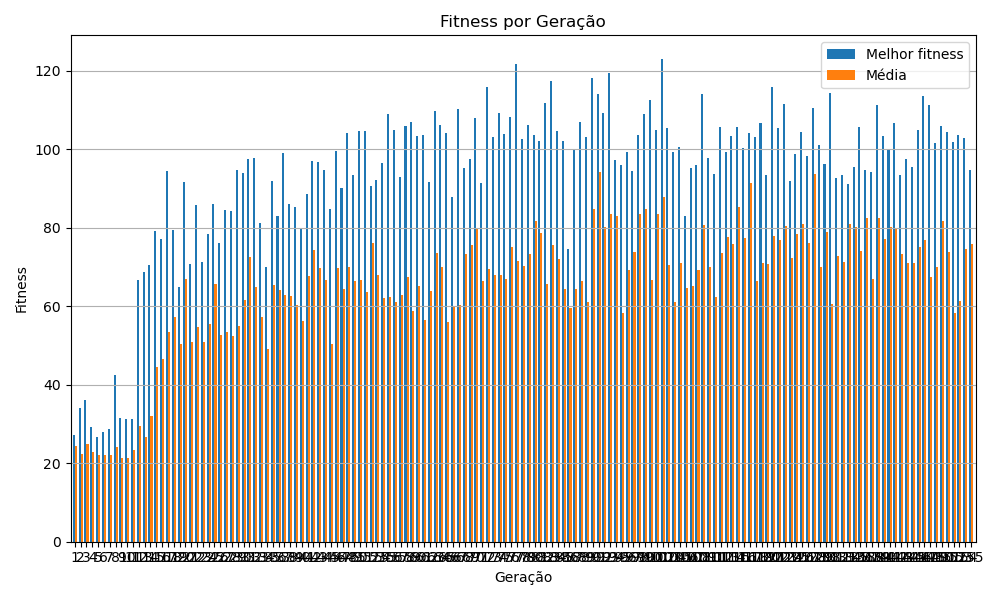
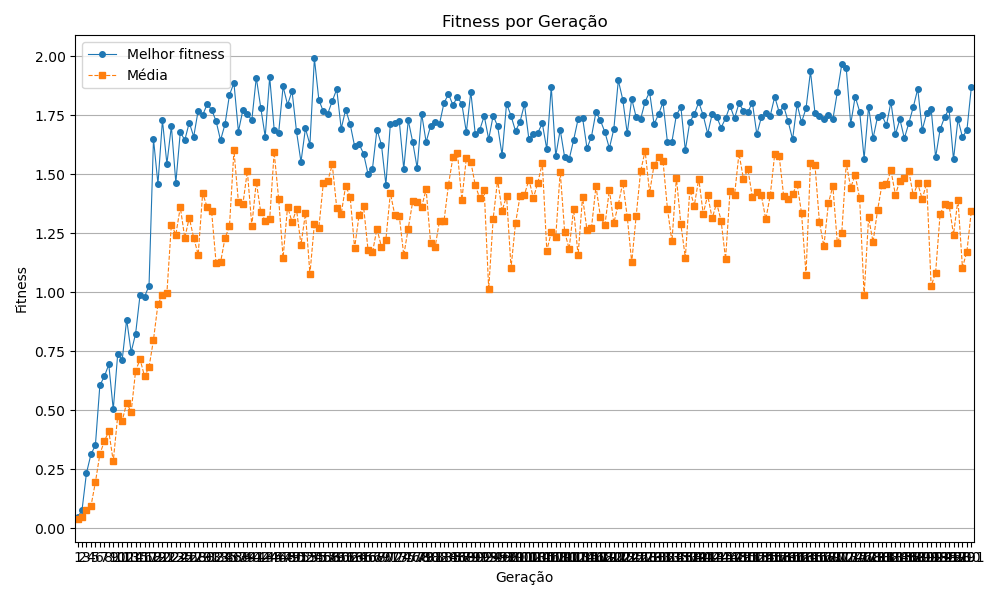
updates plot for grouping

diff --git a/src/visualization/videos/grouping.py b/src/visualization/videos/grouping.py
@@ -1,0 +1,149 @@
+import csv
+import matplotlib.pyplot as plt
+from matplotlib.patches import Circle
+import numpy as np
+import os
+from matplotlib.animation import FuncAnimation, FFMpegWriter
+
+# This script creates a video grid of simulations for the "grouping" scenario.
+# Input CSV rows are expected to contain, for each robot, 3 consecutive values:
+# x, y, theta
+# Repeated for each robot: x,y,theta,x,y,theta,...
+# All robots are drawn with the same blue color.
+
+# Configuration (edit as needed)
+num_robots = 30
+diameter_robot = 7.4
+world_size = 316  # in cm, should match simulation setup
+generation = '035'
+simulation_timestamp = '13-10-2025 15-11-17'
+
[1 lines of base64/hex data omitted]
+num_simulations = 10
+rows, cols = 2, 5
+
+# Video parameters
+fps = 10  # frames per second in output video
+
+# Trajectory (trail) configuration
+enable_trails = True
+trail_length = 40  # number of previous positions to draw (like plot_40)
+
+#update this line, there is no ending with 0.csv, there is no such files
+robot_files = [f for f in sorted(os.listdir(base_dir)) if f.endswith('.csv')][:num_simulations]
+
+# Read all data
+robot_trajectories_x_all = []
+robot_trajectories_y_all = []
+robot_trajectories_theta_all = []
+num_frames_all = []
+
+for robot_file in robot_files:
+    robot_trajectories_x = [[] for _ in range(num_robots)]
+    robot_trajectories_y = [[] for _ in range(num_robots)]
+    robot_trajectories_theta = [[] for _ in range(num_robots)]
+    with open(os.path.join(base_dir, robot_file), newline='') as csvfile:
+        reader = csv.reader(csvfile, delimiter=',')
+        for row in reader:
+            # filter out empty strings
+            row = [value.strip() for value in row if value.strip()]
+            # convert to floats
+            try:
+                rowf = [float(v) for v in row]
+            except ValueError:
+                # skip malformed rows
+                continue
+            # expect 3 values per robot: x,y,theta
+            for i in range(num_robots):
+                base = 3 * i
+                if base + 2 < len(rowf):
+                    x = rowf[base]
+                    y = rowf[base + 1]
+                    theta = rowf[base + 2]
+                else:
+                    # not enough values in this row for this robot, use last known or zeros
+                    x = robot_trajectories_x[i][-1] if robot_trajectories_x[i] else 0.0
+                    y = robot_trajectories_y[i][-1] if robot_trajectories_y[i] else 0.0
+                    theta = robot_trajectories_theta[i][-1] if robot_trajectories_theta[i] else 0.0
+                robot_trajectories_x[i].append(x)
+                robot_trajectories_y[i].append(y)
+                robot_trajectories_theta[i].append(theta)
+
+    robot_trajectories_x_all.append(robot_trajectories_x)
+    robot_trajectories_y_all.append(robot_trajectories_y)
+    robot_trajectories_theta_all.append(robot_trajectories_theta)
+    num_frames_all.append(len(robot_trajectories_x[0]))
+
+total_sim_frames = max(num_frames_all) if num_frames_all else 0
+video_frames = total_sim_frames
+
+# Predefine a single blue color for all robots
+blue_color = (0.0, 0.45, 0.8)  # pleasant blue
+
+# Create Full HD figure (1920x1080). figsize is in inches; use 1920/100 x 1080/100 with dpi=100 for 1920x1080 pixels
+fig_dpi = 100
+fig_width = 1920 / fig_dpi
+fig_height = 1080 / fig_dpi
+fig, axes = plt.subplots(rows, cols, figsize=(fig_width, fig_height), dpi=fig_dpi)
+axes = axes.flatten()
+
+# Pre-create artists for each subplot to speed animation
+plot_artists = []
+for sim_idx, ax in enumerate(axes):
+    ax.set_xlim(0, world_size)
+    ax.set_ylim(0, world_size)
+    ax.set_aspect('equal')
+    for spine in ax.spines.values():
+        spine.set_visible(True)
+        spine.set_linewidth(1.5)
+    ax.grid(True, which='both', linestyle='--', linewidth=0.5, alpha=0.7)
+    ax.tick_params(left=True, bottom=True, labelleft=True, labelbottom=True, labelsize=8)
+    ax.set_title(str(sim_idx), fontsize=12, pad=8, loc='center')
+    artists = {'robot_circles': []}
+    if enable_trails:
+        artists['robot_trails'] = []
+    if sim_idx < len(robot_files):
+        for i in range(num_robots):
+            circle = Circle((0, 0), diameter_robot / 2.0, facecolor=blue_color, edgecolor=blue_color, linewidth=1.0, alpha=0.95)
+            ax.add_patch(circle)
+            artists['robot_circles'].append(circle)
+            if enable_trails:
+                # create an initial empty Line2D for the robot's trail
+                (line,) = ax.plot([], [], linewidth=1.2, color=blue_color, alpha=0.7)
+                artists['robot_trails'].append(line)
+    plot_artists.append(artists)
+
+def update(frame):
+    for sim_idx, ax in enumerate(axes):
+        if sim_idx < len(robot_files):
+            artists = plot_artists[sim_idx]
+            for i in range(num_robots):
+                xs = robot_trajectories_x_all[sim_idx][i]
+                ys = robot_trajectories_y_all[sim_idx][i]
+                idx = min(frame, len(xs) - 1)
+                x_last = xs[idx]
+                y_last = ys[idx]
+                artists['robot_circles'][i].center = (x_last, y_last)
+                # set uniform blue color
+                artists['robot_circles'][i].set_facecolor(blue_color)
+                artists['robot_circles'][i].set_edgecolor(blue_color)
+                # update trail if enabled
+                if enable_trails:
+                    start_idx = max(0, idx - trail_length + 1)
+                    trail_x = xs[start_idx:idx + 1]
+                    trail_y = ys[start_idx:idx + 1]
+                    artists['robot_trails'][i].set_data(trail_x, trail_y)
+                    # fade the trail by adjusting alpha on the Line2D (matplotlib doesn't support per-segment alpha easily)
+                    artists['robot_trails'][i].set_alpha(0.6)
+    return []
+
+ani = FuncAnimation(fig, update, frames=video_frames, blit=False)
+
+output_file = os.path.join(os.path.dirname(__file__), 'grouping_' + generation + '.mp4')
+try:
+    writer = FFMpegWriter(fps=fps)
+    ani.save(output_file, writer=writer, dpi=100)
+    print(f"Saved video to {output_file}")
+except Exception as e:
+    print("Failed to save mp4 via FFMpegWriter. Make sure ffmpeg is installed and available in PATH.")
+    print(str(e))

diff --git a/src/visualization/fitness/fitness.py b/src/visualization/fitness/fitness.py
@@ -3,7 +3,7 @@ import statistics
 from pathlib import Path
 import numpy as np
 
-base_dir = Path('/home/anachiarelli/projects/udesc/tcc/simulation/output/object_clustering/08-10-2025 17-46-37')
+base_dir = Path('/home/anachiarelli/projects/udesc/tcc/simulation/output/sorting_groups/12-10-2025 15-23-11')
 
 fitnesses_by_generation = []
 
@@ -28,23 +28,27 @@ for generation in generations:
 average_fitness_by_generation = [statistics.mean(fitnesses) for fitnesses in fitnesses_by_generation]
 maximum_fitness_by_generation = [max(fitnesses) for fitnesses in fitnesses_by_generation]
 
-# Grouped bar chart setup
+# Line chart setup
 plt.figure(figsize=(10, 6))  # Adjust figure size for better visibility
-bar_width = 0.35  # Width of each bar
 index = np.arange(len(generations))  # X-axis indices for generations
 
-# Plot bars for maximum and average fitness side by side
-plt.bar(index, maximum_fitness_by_generation, bar_width, label='Melhor fitness')
-plt.bar(index + bar_width, average_fitness_by_generation, bar_width, label='Média')
+# Plot lines for maximum and average fitness
+plt.plot(index, maximum_fitness_by_generation, marker='o', markersize=4, linestyle='-', linewidth=0.8, label='Melhor fitness')
+plt.plot(index, average_fitness_by_generation, marker='s', markersize=4, linestyle='--', linewidth=0.8, label='Média')
 
 # Customize the plot
 plt.title('Fitness por Geração')
 plt.xlabel('Geração')
 plt.ylabel('Fitness')
-plt.xticks(index + bar_width / 2, [int(generation) + 1 for generation in generations])  # Center x-ticks under grouped bars
+# Use generation numbers (1-based) as x-tick labels
+try:
+    xtick_labels = [int(generation) + 1 for generation in generations]
+except Exception:
+    xtick_labels = generations
+plt.xticks(index, xtick_labels)
 plt.legend()
 plt.grid(True, axis='y')  # Grid only on y-axis for clarity
-plt.xlim([-0.5, len(generations)])  # Adjust x-axis limits
+plt.xlim([-0.5, max(len(generations) - 0.5, 0)])  # Adjust x-axis limits
 # plt.ylim([0, 3000])  # Uncomment if you want to set a specific y-axis limit
 plt.tight_layout()  # Adjust layout to prevent label cutoff
 

diff --git a/src/Scenarios/sorting_groups/SortingEvaluator.cpp b/src/Scenarios/sorting_groups/SortingEvaluator.cpp
@@ -46,13 +46,13 @@ public:
             }
 
             // not used
-			for (int j = 0; j < this->number_of_objects; ++j) {
-				auto object = new Enki::PhysicalObject();
-				object->setCylindric(5.0, 10.0, 35.0); // These cylinders have a diameter and a height of 10 cm. Their mass is approximately 35 g
-				object->dryFrictionCoefficient = 0.58; // and their coefficient of static friction with the floor of our arena is approximately 0.58.
-				object->setColor(Enki::Color(1.0, 1.0, 1.0, 1.0));
-				objects.push_back(object);
-			}
+			// for (int j = 0; j < this->number_of_objects; ++j) {
+			// 	auto object = new Enki::PhysicalObject();
+			// 	object->setCylindric(5.0, 10.0, 35.0); // These cylinders have a diameter and a height of 10 cm. Their mass is approximately 35 g
+			// 	object->dryFrictionCoefficient = 0.58; // and their coefficient of static friction with the floor of our arena is approximately 0.58.
+			// 	object->setColor(Enki::Color(1.0, 1.0, 1.0, 1.0));
+			// 	objects.push_back(object);
+			// }
 			
 			data_collector = new SortingDataCollector(robots, objects);
 			simulator->simulate(robots, objects, data_collector);
@@ -78,13 +78,13 @@ public:
 
 			// TODO: the total steps should not be hardcoded ---> Across 10 systematic experiments with 5 robots and 20 objects, on average, 86.5% of the objects were in one cluster after 10 minutes
 			double cost = 0.0;
-			for (int i = 0; i < 1000; ++i) {
+			for (int i = 0; i < 1800; ++i) {
 				double t = i / 10.0;
 				cost += dispersions[i] * t;
 			}
 
 			data_writer->writeRobotsPositions(generation, id, data_collector->getRobotsData(), individual, i);
-			data_writer->writeObjectsPositions(generation, id, data_collector->getObjectsData(), individual, i);
+			// ->writeObjectsPositions(generation, id, data_collector->getObjectsData(), individual, i);
 			data_writer->writeDispersion(generation, id, dispersions, individual, i);
 			double fitness = (1.0 / (1.0 + cost)) * 100000000; // Scaling to avoid very small numbers
 			all_fitness.push_back(fitness);

diff --git a/src/visualization/videos/sorting_groups.py b/src/visualization/videos/sorting_groups.py
@@ -15,8 +15,8 @@ from matplotlib.animation import FuncAnimation, FFMpegWriter
 num_robots = 30
 diameter_robot = 7.4
 world_size = 450  # in cm, should match simulation setup
-generation = '023'
-simulation_timestamp = '09-10-2025 04-37-04'
+generation = '200'
+simulation_timestamp = '12-10-2025 15-23-11'
 
 base_dir = '/home/anachiarelli/projects/udesc/tcc/simulation/output/sorting_groups/' + simulation_timestamp + '/' + generation + '/positions'
 robots_dir = base_dir + '/robots'

diff --git a/src/Simulator/SwarmSimulator.cpp b/src/Simulator/SwarmSimulator.cpp
@@ -36,7 +36,7 @@ public:
 
         // 1800 steps at 10 steps/sec = 180s (GAUCI_a)
         // Clustering: In each generation, each of the λ = 10 candidate solutions (i.e. controllers) was evaluated by running it for 100 s
-        for (int i = 0; i < 1000; ++i) {
+        for (int i = 0; i < 1800; ++i) {
             world.step(0.1, 10);
 
             data_collector->collect();

diff --git a/src/Genetics/Algorithm/GeneticAlgorithm.cpp b/src/Genetics/Algorithm/GeneticAlgorithm.cpp
@@ -129,7 +129,7 @@ private:
     }
 
     individual_type mutate(const individual_type& child) {
-        double chance = 0.005;
+        double chance = 0.001;
         
         std::uniform_real_distribution<double> distr(0, 1);
         individual_type mutated_child = child;

diff --git a/src/Scenarios/grouping/main.cpp b/src/Scenarios/grouping/main.cpp
@@ -11,7 +11,7 @@
 #include "./GroupingDataWriter.cpp"
 
 const int WORLD_SIZE = 316; // World size of 316 taken from GAUCI_A
-const int POPULATION_SIZE = 40;
+const int POPULATION_SIZE = 10;
 const int SWARM_SIZE = 30;
 
 std::string buildOutputDirPath() {
